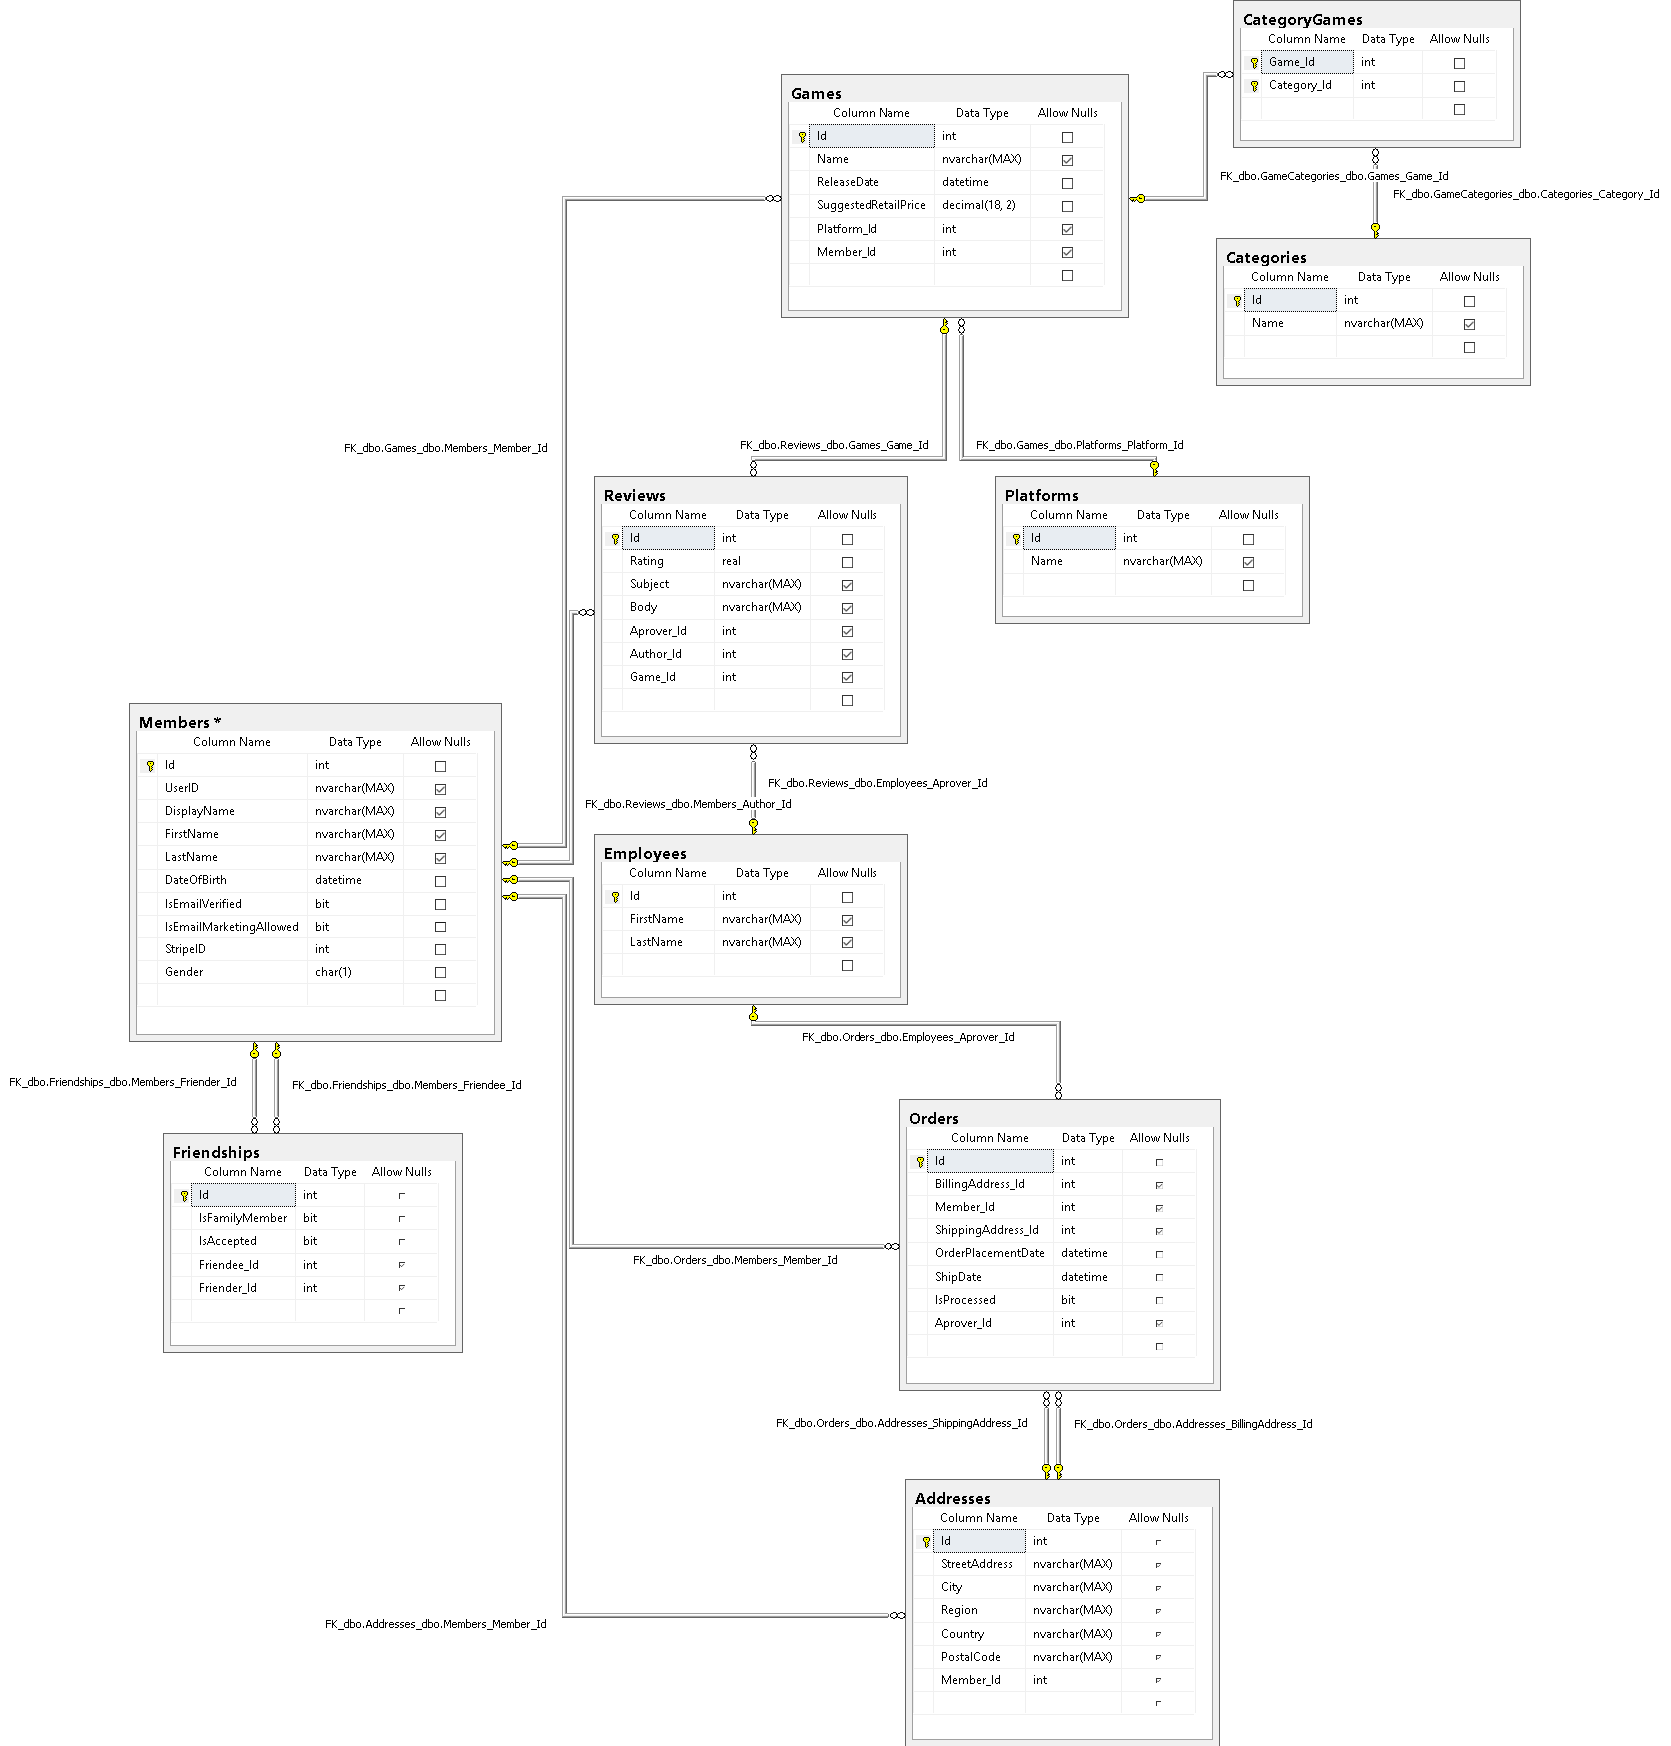
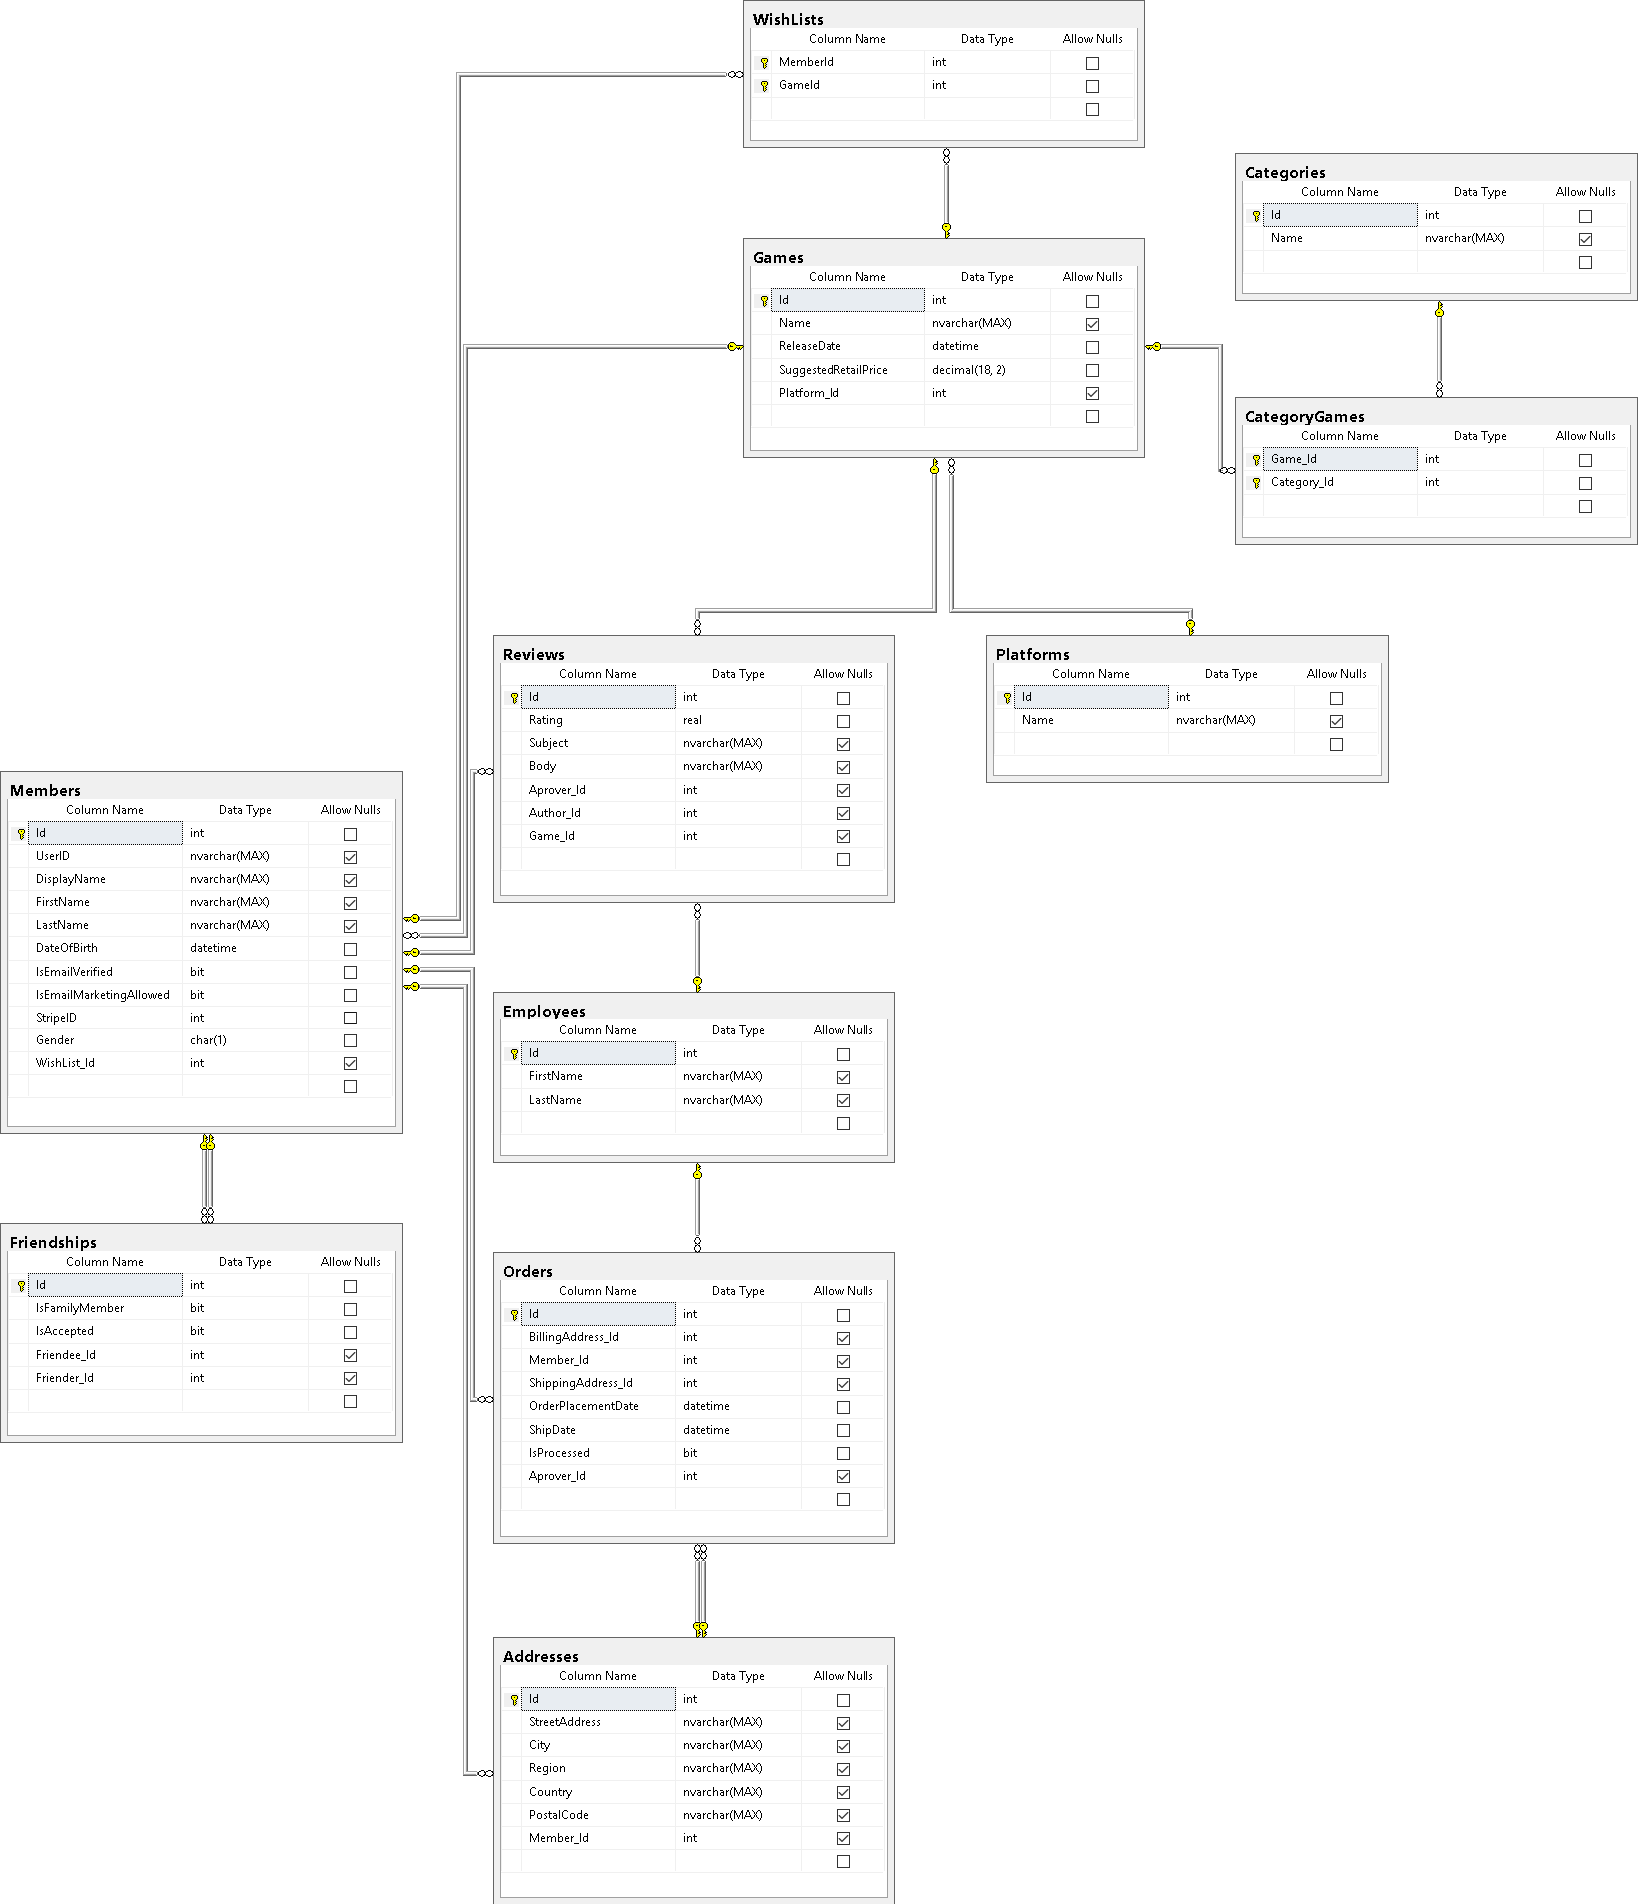
ER Diagram
- Added WishLists joining table
- Nearly complete, just need to verify data types are correct

diff --git a/ER Diagram/ProjectModel.cs b/ER Diagram/ProjectModel.cs
@@ -1,0 +1,139 @@
+namespace LoginExample.Models
+{
+    using System;
+    using System.Collections.Generic;
+    using System.ComponentModel.DataAnnotations;
+    using System.ComponentModel.DataAnnotations.Schema;
+    using System.Data.Entity;
+
+    public class ProjectModels : DbContext
+    {
+        public ProjectModels()
+            : base("name=ProjectEntities")
+        {
+        }
+
+        public virtual DbSet<Member> Members { get; set; }
+        public virtual DbSet<Employee> Employees { get; set; }
+        public virtual DbSet<Address> Addresses { get; set; }
+        public virtual DbSet<Order> Orders { get; set; }
+        public virtual DbSet<Game> Games { get; set; }
+        public virtual DbSet<Review> Reviews { get; set; }
+        public virtual DbSet<Friendship> Friendships { get; set; }
+        public virtual DbSet<Platform> Platforms { get; set; }
+        public virtual DbSet<Category> Catagories { get; set; }
+        public virtual DbSet<WishList> WishList { get; set; }
+    }
+
+    public class Member
+    {
+        public int Id { get; set; }
+        public string UserID { get; set; }
+        public string DisplayName { get; set; }
+        [Required] // NOT NULL
+        [Column(TypeName = "char"), StringLength(1)] // CHAR(1)
+        public string Gender { get; set; }
+        public string FirstName { get; set; }
+        public string LastName { get; set; }
+        public DateTime DateOfBirth { get; set; }
+        public bool IsEmailVerified { get; set; }
+        public bool IsEmailMarketingAllowed { get; set; }
+        public int StripeID { get; set; }
+        public virtual Game WishList { get; set; }
+    }
+
+    public class Employee
+    {
+        public int Id { get; set; }
+        public string FirstName { get; set; }
+        public string LastName { get; set; }
+    }
+
+    public class Address
+    {
+        public int Id { get; set; }
+        public virtual Member Member { get; set; }
+        public string StreetAddress { get; set; }
+        public string City { get; set; }
+        public string Region { get; set; }
+        public string Country { get; set; }
+        public string PostalCode { get; set; }
+    }
+
+    public class Order
+    {
+        public int Id { get; set; }
+        public virtual Address BillingAddress { get; set; }
+        public virtual Address ShippingAddress { get; set; }
+        public virtual Member Member { get; set; }
+        public virtual Employee Aprover { get; set; }
+        public DateTime OrderPlacementDate { get; set; }
+        public DateTime ShipDate { get; set; }
+        public bool IsProcessed { get; set; }
+    }
+
+    public class OrderItem
+    {
+        [Key]
+        public virtual Game Game { get; set; }
+        [Key]
+        public virtual Order Order { get; set; }
+        public decimal SalePrice { get; set; }
+    }
+
+    public class WishList
+    {
+        [Key, Column(Order = 0)]
+        public int MemberId { get; set; }
+        [Key, Column(Order = 1)]
+        public int GameId { get; set; }
+        public virtual Game Game { get; set; }
+        public virtual Member Member { get; set; }
+    }
+
+    public class Game
+    {
+        public int Id { get; set; }
+        public string Name { get; set; }
+        public DateTime ReleaseDate { get; set; }
+        public decimal SuggestedRetailPrice { get; set; }
+        public virtual List<Category> Categories { get; set; }
+        public virtual List<Review> Reviews { get; set; }
+        public virtual Platform Platform { get; set; }
+    }
+
+    public class Review
+    {
+        public int Id { get; set; }
+        public virtual Game Game { get; set; }
+        public virtual Member Author { get; set; }
+        public virtual Employee Aprover { get; set; }
+        public float Rating { get; set; }
+        public string Subject { get; set; }
+        public string Body { get; set; }
+    }
+
+    public class Friendship
+    {
+        [Key]
+        public int Id { get; set; }
+        public virtual Member Friendee { get; set; }
+        public virtual Member Friender { get; set; }
+        public bool IsFamilyMember { get; set; }
+        public bool IsAccepted { get; set; }
+    }
+
+    public class Platform
+    {
+        public int Id { get; set; }
+        public string Name { get; set; }
+        public virtual List<Game> Games { get; set; }
+    }
+
+    public class Category
+    {
+        public int Id { get; set; }
+        public string Name { get; set; }
+        public virtual List<Game> Games { get; set; }
+    }
+}
